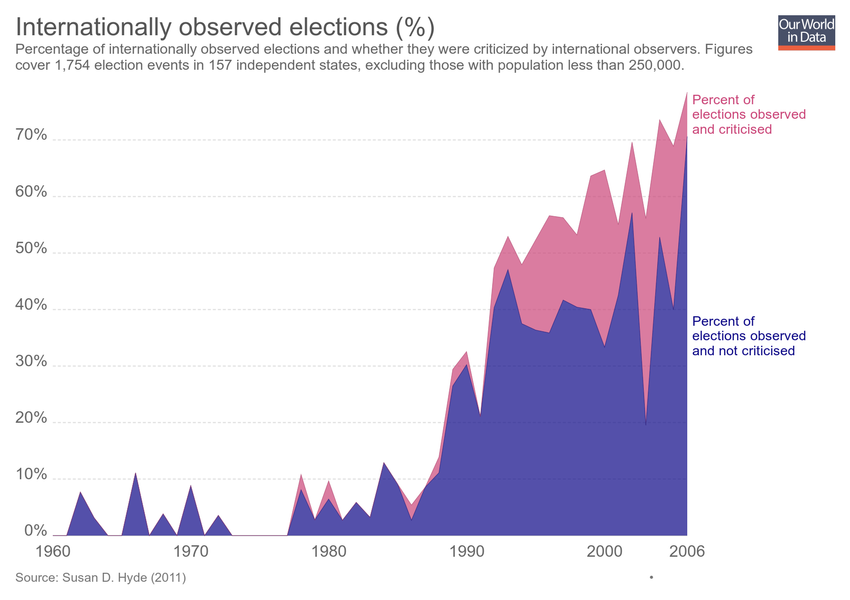
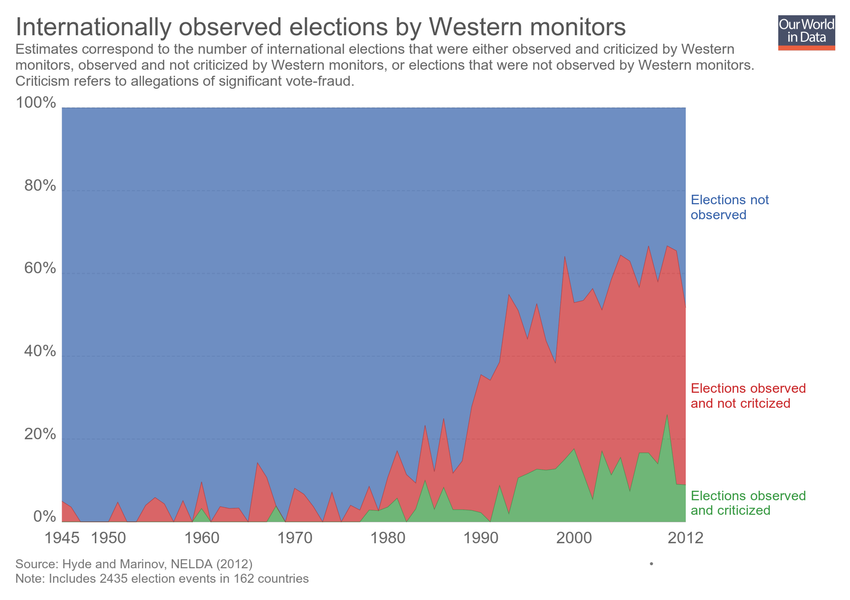
Updating chart share-of-disease-burden-from-communicable-diseases-vs-gdp

diff --git a/grapher/share-of-disease-burden-from-communicable-diseases-vs-gdp.html b/grapher/share-of-disease-burden-from-communicable-diseases-vs-gdp.html
@@ -1,4 +1,4 @@
-<!doctype html><html><head><meta name="viewport" content="width=device-width, initial-scale=1" /><title>Share of disease burden from communicable diseases vs. GDP per capita - Our World in Data</title><meta name="description" content="Share of total disease burden from communicable, maternal, neonatal and nutritional diseases versus gross domestic product (GDP) per capita, measured in 2011 international-$. Disease burden is measured based on Disability-Adjusted Life Years (DALYs) lost." /><link rel="canonical" href="https://ourworldindata.org/grapher/share-of-disease-burden-from-communicable-diseases-vs-gdp" /><meta property="fb:app_id" content="1149943818390250" /><meta property="og:url" content="https://ourworldindata.org/grapher/share-of-disease-burden-from-communicable-diseases-vs-gdp" /><meta property="og:title" content="Share of disease burden from communicable diseases vs. GDP per capita" /><meta property="og:description" content="Share of total disease burden from communicable, maternal, neonatal and nutritional diseases versus gross domestic product (GDP) per capita, measured in 2011 international-$. Disease burden is measured based on Disability-Adjusted Life Years (DALYs) lost." /><meta property="og:image" content="https://ourworldindata.org/grapher/exports/share-of-disease-burden-from-communicable-diseases-vs-gdp.png?v=1" /><meta property="og:image:width" content="850" /><meta property="og:image:height" content="600" /><meta property="og:site_name" content="Our World in Data" /><meta name="twitter:card" content="summary_large_image" /><meta name="twitter:site" content="@OurWorldInData" /><meta name="twitter:creator" content="@OurWorldInData" /><meta name="twitter:title" content="Share of disease burden from communicable diseases vs. GDP per capita" /><meta name="twitter:description" content="Share of total disease burden from communicable, maternal, neonatal and nutritional diseases versus gross domestic product (GDP) per capita, measured in 2011 international-$. Disease burden is measured based on Disability-Adjusted Life Years (DALYs) lost." /><meta name="twitter:image" content="https://ourworldindata.org/grapher/exports/share-of-disease-burden-from-communicable-diseases-vs-gdp.png?v=1" /><style>
+<!doctype html><html><head><meta name="viewport" content="width=device-width, initial-scale=1" /><title>Share of disease burden from communicable diseases vs. GDP per capita - Our World in Data</title><meta name="description" content="Share of total disease burden from communicable, maternal, neonatal and nutritional diseases versus gross domestic product (GDP) per capita, measured in 2011 international-$. Disease burden is measured based on Disability-Adjusted Life Years (DALYs)." /><link rel="canonical" href="https://ourworldindata.org/grapher/share-of-disease-burden-from-communicable-diseases-vs-gdp" /><meta property="fb:app_id" content="1149943818390250" /><meta property="og:url" content="https://ourworldindata.org/grapher/share-of-disease-burden-from-communicable-diseases-vs-gdp" /><meta property="og:title" content="Share of disease burden from communicable diseases vs. GDP per capita" /><meta property="og:description" content="Share of total disease burden from communicable, maternal, neonatal and nutritional diseases versus gross domestic product (GDP) per capita, measured in 2011 international-$. Disease burden is measured based on Disability-Adjusted Life Years (DALYs)." /><meta property="og:image" content="https://ourworldindata.org/grapher/exports/share-of-disease-burden-from-communicable-diseases-vs-gdp.png?v=2" /><meta property="og:image:width" content="850" /><meta property="og:image:height" content="600" /><meta property="og:site_name" content="Our World in Data" /><meta name="twitter:card" content="summary_large_image" /><meta name="twitter:site" content="@OurWorldInData" /><meta name="twitter:creator" content="@OurWorldInData" /><meta name="twitter:title" content="Share of disease burden from communicable diseases vs. GDP per capita" /><meta name="twitter:description" content="Share of total disease burden from communicable, maternal, neonatal and nutritional diseases versus gross domestic product (GDP) per capita, measured in 2011 international-$. Disease burden is measured based on Disability-Adjusted Life Years (DALYs)." /><meta name="twitter:image" content="https://ourworldindata.org/grapher/exports/share-of-disease-burden-from-communicable-diseases-vs-gdp.png?v=2" /><style>
         html, body {
             height: 100%;
             margin: 0;
@@ -20,8 +20,8 @@
         }
     </style><noscript><style>
                     figure { display: none !important; }
-                </style></noscript><link rel="stylesheet" href="https://ourworldindata.org/grapher/assets/commons.bundle.a7ce280024c736539280.css" /><link rel="preload" href="/grapher/data/variables/70187+2209+72+123.json?v=1" as="fetch" crossorigin /></head><body class="singleChart"><figure data-grapher-src="/grapher/share-of-disease-burden-from-communicable-diseases-vs-gdp"></figure><noscript id="fallback"><img src="/grapher/exports/share-of-disease-burden-from-communicable-diseases-vs-gdp.svg" /><p>Interactive visualization requires JavaScript</p></noscript><script src="https://cdn.polyfill.io/v2/polyfill.min.js?features=es6,fetch"></script><script src="https://ourworldindata.org/grapher/assets/commons.bundle.a7ce280024c736539280.js"></script><script src="https://ourworldindata.org/grapher/assets/charts.bundle.dcf65b68eddaba4c6a58.js"></script><script>
-        var jsonConfig = {"map":{"projection":"World","colorSchemeLabels":[],"colorSchemeValues":[],"defaultProjection":"World","colorSchemeMinValue":0,"customNumericColors":[],"customCategoryColors":{},"customCategoryLabels":{},"customHiddenCategories":{}},"tab":"chart","slug":"share-of-disease-burden-from-communicable-diseases-vs-gdp","type":"ScatterPlot","title":"Share of disease burden from communicable diseases vs. GDP per capita","xAxis":{"scaleType":"log","canChangeScaleType":true},"yAxis":{"min":0,"scaleType":"linear"},"maxTime":2016,"minTime":2016,"version":1,"subtitle":"Share of total disease burden from communicable, maternal, neonatal and nutritional diseases versus gross domestic product (GDP) per capita, measured in 2011 international-$. Disease burden is measured based on Disability-Adjusted Life Years (DALYs) lost.","hasMapTab":false,"stackMode":"absolute","dimensions":[{"display":{"name":"Share of disease burden from communicable diseases","unit":"%"},"property":"y","variableId":70187},{"display":{},"property":"x","variableId":2209},{"display":{},"property":"size","variableId":72},{"display":{},"property":"color","variableId":123}],"sourceDesc":"IHME, Global Burden of Disease","hasChartTab":true,"isPublished":true,"selectedData":[],"id":2219};
+                </style></noscript><link rel="stylesheet" href="https://ourworldindata.org/grapher/assets/commons.bundle.a7ce280024c736539280.css" /><link rel="preload" href="/grapher/data/variables/70187+2209+72+123.json?v=2" as="fetch" crossorigin /></head><body class="singleChart"><figure data-grapher-src="/grapher/share-of-disease-burden-from-communicable-diseases-vs-gdp"></figure><noscript id="fallback"><img src="/grapher/exports/share-of-disease-burden-from-communicable-diseases-vs-gdp.svg" /><p>Interactive visualization requires JavaScript</p></noscript><script src="https://cdn.polyfill.io/v2/polyfill.min.js?features=es6,fetch"></script><script src="https://ourworldindata.org/grapher/assets/commons.bundle.a7ce280024c736539280.js"></script><script src="https://ourworldindata.org/grapher/assets/charts.bundle.dcf65b68eddaba4c6a58.js"></script><script>
+        var jsonConfig = {"id":2219,"map":{"projection":"World","colorSchemeLabels":[],"colorSchemeValues":[],"colorSchemeMinValue":0,"customNumericColors":[],"customCategoryColors":{},"customCategoryLabels":{},"customHiddenCategories":{}},"tab":"chart","slug":"share-of-disease-burden-from-communicable-diseases-vs-gdp","type":"ScatterPlot","title":"Share of disease burden from communicable diseases vs. GDP per capita","xAxis":{"scaleType":"log","canChangeScaleType":true},"yAxis":{"min":0,"scaleType":"linear"},"maxTime":2016,"minTime":2016,"version":2,"subtitle":"Share of total disease burden from communicable, maternal, neonatal and nutritional diseases versus gross domestic product (GDP) per capita, measured in 2011 international-$. Disease burden is measured based on Disability-Adjusted Life Years (DALYs).","hasMapTab":false,"stackMode":"absolute","dimensions":[{"display":{"name":"Share of disease burden from communicable diseases","unit":"%"},"property":"y","variableId":70187},{"display":{},"property":"x","variableId":2209},{"display":{},"property":"size","variableId":72},{"display":{},"property":"color","variableId":123}],"sourceDesc":"IHME, Global Burden of Disease","hasChartTab":true,"isPublished":true,"selectedData":[]};
         var figure = document.getElementsByTagName("figure")[0];
         try {
             window.App = {};

diff --git a/grapher/rate-of-internationally-observed-elections.html b/grapher/rate-of-internationally-observed-elections.html
@@ -1,4 +1,4 @@
-<!doctype html><html><head><meta name="viewport" content="width=device-width, initial-scale=1" /><title>Internationally observed elections (%) - Our World in Data</title><meta name="description" content="Percentage of internationally observed elections and whether they were criticized by international observers. Figures cover 1,754 election events in 157 independent states, excluding those with population less than 250,000." /><link rel="canonical" href="https://ourworldindata.org/grapher/rate-of-internationally-observed-elections" /><meta property="fb:app_id" content="1149943818390250" /><meta property="og:url" content="https://ourworldindata.org/grapher/rate-of-internationally-observed-elections" /><meta property="og:title" content="Internationally observed elections (%)" /><meta property="og:description" content="Percentage of internationally observed elections and whether they were criticized by international observers. Figures cover 1,754 election events in 157 independent states, excluding those with population less than 250,000." /><meta property="og:image" content="https://ourworldindata.org/grapher/exports/rate-of-internationally-observed-elections.png?v=16" /><meta property="og:image:width" content="850" /><meta property="og:image:height" content="600" /><meta property="og:site_name" content="Our World in Data" /><meta name="twitter:card" content="summary_large_image" /><meta name="twitter:site" content="@OurWorldInData" /><meta name="twitter:creator" content="@OurWorldInData" /><meta name="twitter:title" content="Internationally observed elections (%)" /><meta name="twitter:description" content="Percentage of internationally observed elections and whether they were criticized by international observers. Figures cover 1,754 election events in 157 independent states, excluding those with population less than 250,000." /><meta name="twitter:image" content="https://ourworldindata.org/grapher/exports/rate-of-internationally-observed-elections.png?v=16" /><style>
+<!doctype html><html><head><meta name="viewport" content="width=device-width, initial-scale=1" /><title>Internationally observed elections by Western monitors - Our World in Data</title><meta name="description" content="Estimates correspond to the number of international elections that were either observed and criticized by Western monitors, observed and not criticized by Western monitors, or elections that were not observed by Western monitors. Criticism refers to allegations of significant vote-fraud." /><link rel="canonical" href="https://ourworldindata.org/grapher/rate-of-internationally-observed-elections" /><meta property="fb:app_id" content="1149943818390250" /><meta property="og:url" content="https://ourworldindata.org/grapher/rate-of-internationally-observed-elections" /><meta property="og:title" content="Internationally observed elections by Western monitors" /><meta property="og:description" content="Estimates correspond to the number of international elections that were either observed and criticized by Western monitors, observed and not criticized by Western monitors, or elections that were not observed by Western monitors. Criticism refers to allegations of significant vote-fraud." /><meta property="og:image" content="https://ourworldindata.org/grapher/exports/rate-of-internationally-observed-elections.png?v=8" /><meta property="og:image:width" content="850" /><meta property="og:image:height" content="600" /><meta property="og:site_name" content="Our World in Data" /><meta name="twitter:card" content="summary_large_image" /><meta name="twitter:site" content="@OurWorldInData" /><meta name="twitter:creator" content="@OurWorldInData" /><meta name="twitter:title" content="Internationally observed elections by Western monitors" /><meta name="twitter:description" content="Estimates correspond to the number of international elections that were either observed and criticized by Western monitors, observed and not criticized by Western monitors, or elections that were not observed by Western monitors. Criticism refers to allegations of significant vote-fraud." /><meta name="twitter:image" content="https://ourworldindata.org/grapher/exports/rate-of-internationally-observed-elections.png?v=8" /><style>
         html, body {
             height: 100%;
             margin: 0;
@@ -20,8 +20,8 @@
         }
     </style><noscript><style>
                     figure { display: none !important; }
-                </style></noscript><link rel="stylesheet" href="https://ourworldindata.org/grapher/assets/commons.bundle.a7ce280024c736539280.css" /><link rel="preload" href="/grapher/data/variables/97378+97379.json?v=16" as="fetch" crossorigin /></head><body class="singleChart"><figure data-grapher-src="/grapher/rate-of-internationally-observed-elections"></figure><noscript id="fallback"><img src="/grapher/exports/rate-of-internationally-observed-elections.svg" /><p>Interactive visualization requires JavaScript</p></noscript><script src="https://cdn.polyfill.io/v2/polyfill.min.js?features=es6,fetch"></script><script src="https://ourworldindata.org/grapher/assets/commons.bundle.a7ce280024c736539280.js"></script><script src="https://ourworldindata.org/grapher/assets/charts.bundle.dcf65b68eddaba4c6a58.js"></script><script>
-        var jsonConfig = {"id":2589,"map":{"projection":"World","colorSchemeLabels":[],"colorSchemeValues":[],"colorSchemeMinValue":0,"customNumericColors":[],"customCategoryColors":{},"customCategoryLabels":{},"customHiddenCategories":{}},"tab":"chart","slug":"rate-of-internationally-observed-elections","type":"StackedArea","title":"Internationally observed elections (%)","xAxis":{"scaleType":"linear"},"yAxis":{"max":80,"min":0,"scaleType":"linear"},"version":16,"subtitle":"Percentage of internationally observed elections and whether they were criticized by international observers. Figures cover 1,754 election events in 157 independent states, excluding those with population less than 250,000.","hasMapTab":false,"stackMode":"absolute","dimensions":[{"display":{"name":"Percent of elections observed and criticised","unit":"%"},"property":"y","variableId":97378},{"display":{"name":"Percent of elections observed and not criticised"},"property":"y","variableId":97379}],"hasChartTab":true,"isPublished":true,"selectedData":[{"index":0,"entityId":355},{"index":1,"entityId":355}],"addCountryMode":"change-country","baseColorScheme":"Plasma","hideRelativeToggle":true,"hideTitleAnnotation":true};
+                </style></noscript><link rel="stylesheet" href="https://ourworldindata.org/grapher/assets/commons.bundle.a7ce280024c736539280.css" /><link rel="preload" href="/grapher/data/variables/97399+97400+97401.json?v=8" as="fetch" crossorigin /></head><body class="singleChart"><figure data-grapher-src="/grapher/rate-of-internationally-observed-elections"></figure><noscript id="fallback"><img src="/grapher/exports/rate-of-internationally-observed-elections.svg" /><p>Interactive visualization requires JavaScript</p></noscript><script src="https://cdn.polyfill.io/v2/polyfill.min.js?features=es6,fetch"></script><script src="https://ourworldindata.org/grapher/assets/commons.bundle.a7ce280024c736539280.js"></script><script src="https://ourworldindata.org/grapher/assets/charts.bundle.dcf65b68eddaba4c6a58.js"></script><script>
+        var jsonConfig = {"id":2598,"map":{"projection":"World","colorSchemeLabels":[],"colorSchemeValues":[],"customNumericColors":[],"customCategoryColors":{},"customCategoryLabels":{},"customHiddenCategories":{}},"tab":"chart","note":"Includes 2435 election events in 162 countries","slug":"rate-of-internationally-observed-elections","type":"StackedArea","title":"Internationally observed elections by Western monitors","xAxis":{"scaleType":"linear"},"yAxis":{"min":0,"scaleType":"linear"},"version":8,"subtitle":"Estimates correspond to the number of international elections that were either observed and criticized by Western monitors, observed and not criticized by Western monitors, or elections that were not observed by Western monitors. Criticism refers to allegations of significant vote-fraud.","hasMapTab":false,"stackMode":"relative","dimensions":[{"display":{"name":"Elections not observed","unit":"elections","shortUnit":""},"property":"y","variableId":97399},{"display":{"name":"Elections observed and criticized"},"property":"y","variableId":97400},{"display":{"name":"Elections observed and not critcized"},"property":"y","variableId":97401}],"hasChartTab":true,"isPublished":true,"selectedData":[{"index":0,"entityId":355},{"index":2,"entityId":355},{"index":1,"entityId":355}],"addCountryMode":"change-country","baseColorScheme":"owid-distinct","invertColorScheme":true,"hideTitleAnnotation":true};
         var figure = document.getElementsByTagName("figure")[0];
         try {
             window.App = {};
